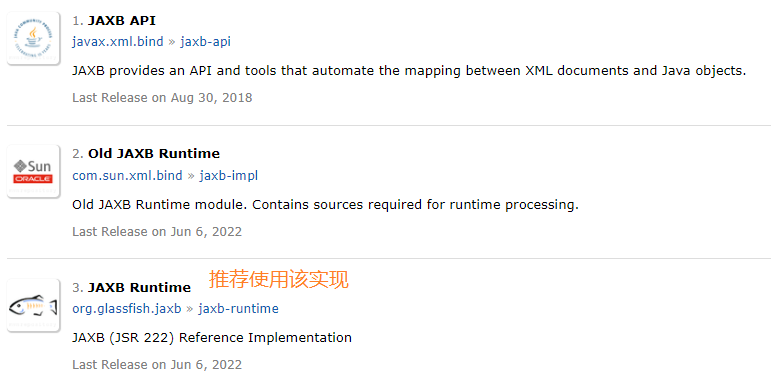
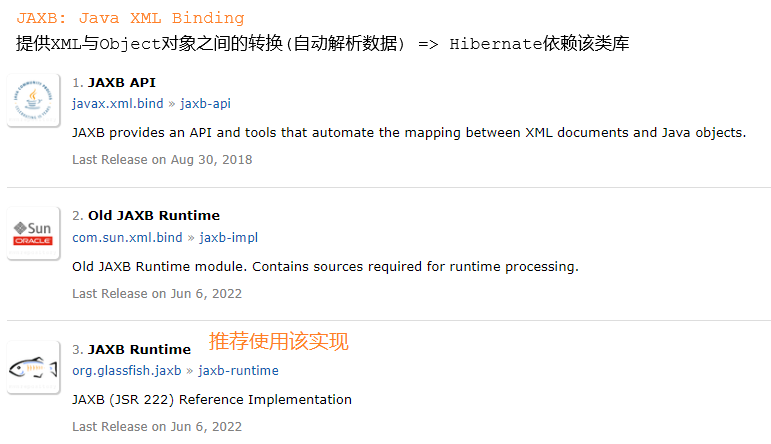
update JAXB xml example

Changed region(s): [[0.0, 0.3455, 0.7471, 0.9791], [0.0, 0.0288, 0.965, 0.3168]]

diff --git a/third-party-libraries/xml-serializer/src/main/java/jaxb/XmlUnMarshallerDemo.java b/third-party-libraries/xml-serializer/src/main/java/jaxb/XmlUnMarshallerDemo.java
@@ -1,0 +1,34 @@
+package jaxb;
+
+import jakarta.xml.bind.JAXBContext;
+import jakarta.xml.bind.JAXBException;
+import jakarta.xml.bind.Unmarshaller;
+import jaxb.model.Person;
+import jaxb.model.Record;
+
+import javax.xml.stream.XMLInputFactory;
+import javax.xml.stream.XMLStreamException;
+import javax.xml.stream.XMLStreamReader;
+import java.io.InputStream;
+
+// unmarshaller: 将xml file编组成指定Object, 对象类型必须匹配XML
+public class XmlUnMarshallerDemo {
+
+    public static void main(String[] args) throws Exception {
+        ClassLoader classLoader = XmlUnMarshallerDemo.class.getClassLoader();
+        InputStream inputStream = classLoader.getResourceAsStream("records.xml");
+        readXml(inputStream, Record.class);
+    }
+
+    public static void readXml(InputStream inputStream, Class<?> clazz) throws XMLStreamException, JAXBException {
+        XMLInputFactory inputFactory = XMLInputFactory.newInstance();
+        XMLStreamReader reader = inputFactory.createXMLStreamReader(inputStream);
+
+        JAXBContext context = JAXBContext.newInstance(clazz);
+        Unmarshaller unmarshaller = context.createUnmarshaller();
+
+        Record record = (Record) unmarshaller.unmarshal(reader);
+        Person person = record.getPerson().get(0);
+        System.out.println(person.getDescription().getValue());
+    }
+}

diff --git a/third-party-libraries/xml-serializer/src/main/java/jaxb/model/Description.java b/third-party-libraries/xml-serializer/src/main/java/jaxb/model/Description.java
@@ -1,0 +1,48 @@
+package jaxb.model;
+
+import jakarta.xml.bind.annotation.*;
+import jakarta.xml.bind.annotation.adapters.CollapsedStringAdapter;
+import jakarta.xml.bind.annotation.adapters.XmlJavaTypeAdapter;
+
+@XmlRootElement(name = "person")
+@XmlType(name = "", propOrder = {
+        "value"
+})
+@XmlAccessorType(XmlAccessType.FIELD)
+public class Description {
+
+    // TODO. value标识属性标签内的值
+    @XmlValue
+    protected String value;
+
+    @XmlAttribute(name = "Id", required = true)
+    protected String id;
+
+    @XmlAttribute(name = "Type", required = true)
+    @XmlJavaTypeAdapter(CollapsedStringAdapter.class)
+    protected String type;
+
+    public String getValue() {
+        return value;
+    }
+
+    public void setValue(String value) {
+        this.value = value;
+    }
+
+    public String getId() {
+        return id;
+    }
+
+    public void setId(String id) {
+        this.id = id;
+    }
+
+    public String getType() {
+        return type;
+    }
+
+    public void setType(String type) {
+        this.type = type;
+    }
+}

diff --git a/third-party-libraries/xml-serializer/src/main/java/jaxb/model/Person.java b/third-party-libraries/xml-serializer/src/main/java/jaxb/model/Person.java
@@ -1,4 +1,4 @@
-package jaxb.record;
+package jaxb.model;
 
 import jakarta.xml.bind.annotation.XmlAttribute;
 import jakarta.xml.bind.annotation.XmlElement;
@@ -24,6 +24,7 @@ public class Person {
     @XmlAttribute(name = "date", required = true)
     protected String date;
 
+
     // XmlElement元素的顺序没有影响
     @XmlElement(name = "Gender")
     protected String gender;
@@ -31,8 +32,12 @@ public class Person {
     @XmlElement(name = "ActiveStatus")
     protected String activeStatus;
 
+    @XmlElement(name = "Description")
+    protected Description description;
+
     @XmlElement(name = "NameDetails")
     protected NameDetails nameDetails;
+
 
     public String getResourceName() {
         return resourceName;
@@ -45,6 +50,8 @@ public class Person {
     public String getActiveStatus() {
         return activeStatus;
     }
+
+    public Description getDescription() { return description; }
 
     public NameDetails getNameDetails() {
         return nameDetails;

diff --git a/third-party-libraries/xml-serializer/src/main/java/jaxb/XmlMarshallerDemo.java b/third-party-libraries/xml-serializer/src/main/java/jaxb/XmlMarshallerDemo.java
@@ -1,0 +1,19 @@
+package jaxb;
+
+import jakarta.xml.bind.JAXBContext;
+import jakarta.xml.bind.JAXBException;
+import jakarta.xml.bind.Marshaller;
+import jaxb.model.Demo;
+
+// marshal: 将Object编组成指定的document xml文件
+public class XmlMarshallerDemo {
+
+    public static void main(String[] args) throws JAXBException {
+        JAXBContext context = JAXBContext.newInstance(Demo.class);
+        Marshaller marshaller = context.createMarshaller();
+
+        marshaller.setProperty(Marshaller.JAXB_FORMATTED_OUTPUT, true);
+        Demo person = new Demo("chen", "victor");
+        marshaller.marshal(person, System.out);
+    }
+}

diff --git a/third-party-libraries/xml-serializer/src/main/java/jaxb/model/Demo.java b/third-party-libraries/xml-serializer/src/main/java/jaxb/model/Demo.java
@@ -1,19 +1,19 @@
-package jaxb.demo;
+package jaxb.model;
 
 import jakarta.xml.bind.annotation.XmlRootElement;
 
 // 配置XML文件根标签的名称, 默认为首字母小写
 @XmlRootElement
-public class XmlPerson {
+public class Demo {
 
     private String firstname;
     private String lastname;
 
     // TODO. 必须提供无参构造器，才能转换成XML文件
-    public XmlPerson() {
+    public Demo() {
     }
 
-    public XmlPerson(String firstname, String lastname) {
+    public Demo(String firstname, String lastname) {
         this.firstname = firstname;
         this.lastname = lastname;
     }

diff --git a/third-party-libraries/xml-serializer/src/main/java/jaxb/model/NameValue.java b/third-party-libraries/xml-serializer/src/main/java/jaxb/model/NameValue.java
@@ -1,15 +1,16 @@
-package jaxb.record;
+package jaxb.model;
 
 import jakarta.xml.bind.annotation.*;
 import java.util.List;
 
-@XmlAccessorType(XmlAccessType.FIELD)
-@XmlType(name = "", propOrder = {
-        "firstName",
-        "middleName",
-        "surname",
-})
+// TODO. 配置XML上级的根标签和Property属性的顺序
 @XmlRootElement(name = "NameValue")
+@XmlType(name = "", propOrder = {
+    "firstName",
+    "middleName",
+    "surname",
+})
+@XmlAccessorType(XmlAccessType.FIELD)
 public class NameValue {
 
     @XmlElement(name = "FirstName")

diff --git a/third-party-libraries/xml-serializer/src/main/java/jaxb/model/Record.java b/third-party-libraries/xml-serializer/src/main/java/jaxb/model/Record.java
@@ -1,4 +1,4 @@
-package jaxb.record;
+package jaxb.model;
 
 import jakarta.xml.bind.annotation.*;
 import java.util.ArrayList;
@@ -10,8 +10,8 @@ import java.util.List;
         // 指定XML标签下的子标签，约束标签顺序
         "person"
 })
-@XmlRootElement(name = "Records")
-public class Records {
+@XmlRootElement(name = "Record")
+public class Record {
 
     @XmlElement(name = "Person")
     protected List<Person> person;

diff --git a/third-party-libraries/xml-serializer/src/main/java/jaxb/model/NameDetails.java b/third-party-libraries/xml-serializer/src/main/java/jaxb/model/NameDetails.java
@@ -1,11 +1,11 @@
-package jaxb.record;
+package jaxb.model;
 
 import jakarta.xml.bind.annotation.*;
 import java.util.List;
 
 @XmlAccessorType(XmlAccessType.FIELD)
 @XmlType(name = "", propOrder = {
-        "name"
+    "name"
 })
 @XmlRootElement(name = "NameDetails")
 public class NameDetails {

diff --git a/third-party-libraries/xml-serializer/src/main/java/jaxb/model/Name.java b/third-party-libraries/xml-serializer/src/main/java/jaxb/model/Name.java
@@ -1,11 +1,11 @@
-package jaxb.record;
+package jaxb.model;
 
 import jakarta.xml.bind.annotation.*;
 import java.util.List;
 
 @XmlAccessorType(XmlAccessType.FIELD)
 @XmlType(name = "", propOrder = {
-        "nameValue"
+    "nameValue"
 })
 @XmlRootElement(name = "Name")
 public class Name {

diff --git a/third-party-libraries/xml-serializer/src/main/java/jaxb/converter/JaxbDatatypeConverter.java b/third-party-libraries/xml-serializer/src/main/java/jaxb/converter/JaxbDatatypeConverter.java
@@ -1,4 +1,4 @@
-package jaxb.utils;
+package jaxb.converter;
 
 import jakarta.xml.bind.DatatypeConverter;
 
